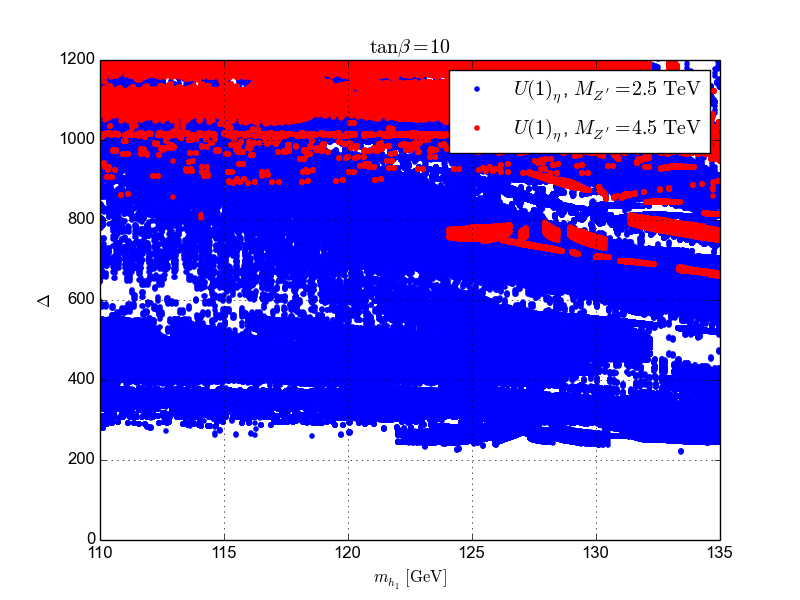
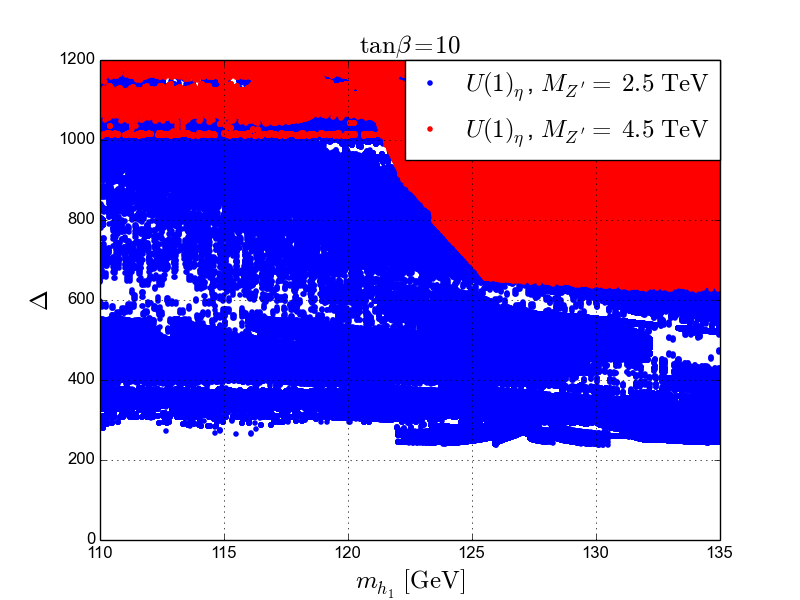
Updated general U(1) plots, updated caption in the corresponding figure (which may be a bit awkwardly written, might consider rewriting), and changed occurrences of \it to \textit

diff --git a/paper/e6ssm-tuning-paper.tex b/paper/e6ssm-tuning-paper.tex
@@ -796,10 +796,10 @@ pick up contributions from the soft squark masses.
 \includegraphics{mssm_stop_tuning.png}}
 \resizebox{!}{6.1cm}{%
 \includegraphics{mssm_higgs_tuning.png}}
-\caption{{\it Left panel:} Scatter plot of fine tuning in the MSSM as a function of
+\caption{\textit{Left panel:} Scatter plot of fine tuning in the MSSM as a function of
 the lightest stop mass, $m_{\tilde{t}_1}$, for the cutoff scales (from 
 bottom to top) $M_X=20$ TeV, $M_X=50$ TeV, $M_X=100$ TeV and $M_X=10^{16}$ GeV. 
-{\it Right panel:} Scatter plot of fine tuning in the MSSM as a function of
+\textit{Right panel:} Scatter plot of fine tuning in the MSSM as a function of
 the lightest Higgs mass, $m_{h_1}$, for the cutoff scales (from 
 bottom to top) $M_X=20$ TeV, $M_X=50$ TeV, $M_X=100$ TeV and $M_X=10^{16}$ GeV.}
 \label{Fig:mssmstoptuning}
@@ -994,14 +994,14 @@ Fig.~\ref{Fig:e6ssmvsmssm}.
 
 \begin{figure}
 \begin{center}
-\resizebox{!}{5cm}{%
+\resizebox{!}{6.1cm}{%
 \includegraphics{e6inert_tb10_tuning_vs_higgs.png}}
-\resizebox{!}{5cm}{%
+\resizebox{!}{6.1cm}{%
 \includegraphics{e6psi_tb10_tuning_vs_higgs.png}}\\
-\resizebox{!}{5cm}{%
+\resizebox{!}{6.1cm}{%
 \includegraphics{e6eta_tb10_tuning_vs_higgs.png}}%%
-\caption{Scatter plot of fine tuning vs lightest Higgs mass in ... with $M_{Z^\prime} = 2.5$ TeV shown in blue
-(bottom band) and $M_{Z^\prime} = 4.5$ TeV in red (top band).}
+\caption{\textit{Top left panel:} Scatter plot of the fine tuning vs lightest Higgs mass in the $U(1)_I$ model. \textit{Top right panel:} Scatter plot of the fine tuning vs lightest Higgs mass in the $U(1)_\psi$ model. \textit{Bottom panel:} Scatter plot of the fine tuning vs lightest Higgs mass in the $U(1)_\eta$ model. In each plot points with $M_{Z^\prime} = 2.5$ TeV are shown in blue
+(bottom band), and points with $M_{Z^\prime} = 4.5$ TeV are shown in red (top band).}
 \label{Fig:othere6modelsvsmssm}
 \end{center}
 \end{figure}
@@ -1107,7 +1107,7 @@ $B_{\mathrm{eff}}=A_\lambda$. The soft masses $m_{H_d}^2$, $m_{H_u}^2$ and $m_S^
 \includegraphics{mssm_cutoff_scan_tb10_fixed_at_ms_BM2_all_tuning_data.png}} 
 \resizebox{!}{5.5cm}{%
 \includegraphics{e6ssm_light_zprime_cutoff_scan_tb10_fixed_at_ms_BM2_all_tuning_data.png}}%%
-\caption{{\it Top panel:} Scatter plot of the fine tuning as a function of the cutoff scale $M_X$ for the four benchmark points given in Table \ref{tab:benchmarks}. {\it Middle left panel:}  Individual sensitivities for MSSM BM1 plotted against the high scale $M_X$ which give the overall tuning shown by the green line in the top panel. {\it Middle right panel:} Individual sensitivities for E$_6$SSM BM1 plotted against the high scale $M_X$ which give the overall tuning shown by the blue line in the top panel. {\it Bottom left panel:} Individual sensitivities for MSSM BM2 plotted against the high scale $M_X$ which give the overall tuning shown by the yellow line in the top panel. {\it Bottom right panel:} Individual sensitivities for E$_6$SSM BM2 plotted against the high scale $M_X$ which give the overall tuning shown by the red line in the top panel.    }
+\caption{\textit{Top panel:} Scatter plot of the fine tuning as a function of the cutoff scale $M_X$ for the four benchmark points given in Table \ref{tab:benchmarks}. \textit{Middle left panel:}  Individual sensitivities for MSSM BM1 plotted against the high scale $M_X$ which give the overall tuning shown by the green line in the top panel. \textit{Middle right panel:} Individual sensitivities for E$_6$SSM BM1 plotted against the high scale $M_X$ which give the overall tuning shown by the blue line in the top panel. \textit{Bottom left panel:} Individual sensitivities for MSSM BM2 plotted against the high scale $M_X$ which give the overall tuning shown by the yellow line in the top panel. \textit{Bottom right panel:} Individual sensitivities for E$_6$SSM BM2 plotted against the high scale $M_X$ which give the overall tuning shown by the red line in the top panel.    }
 \label{Fig:BMs-varyMX}
 \end{center}
 \end{figure}
